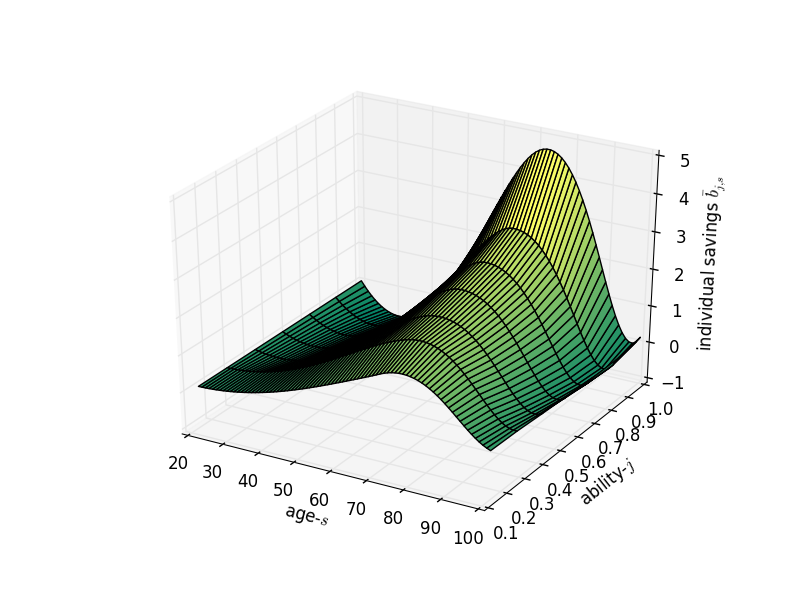
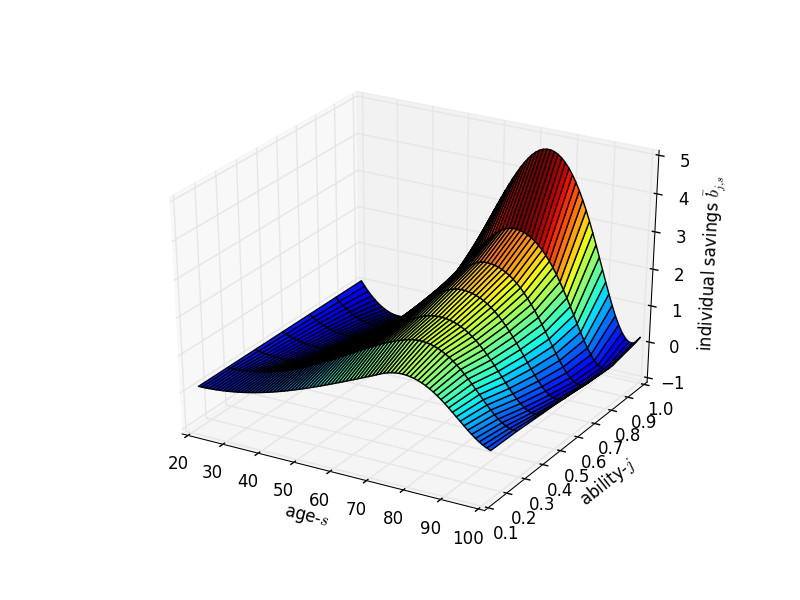
SS

Changed region(s): [[0.25, 0.24, 0.7812, 0.75]]

diff --git a/Python/3_stationary_demographics/SS.py b/Python/3_stationary_demographics/SS.py
@@ -442,6 +442,7 @@ plt.savefig("OUTPUT/capital_dist_2D")
 
 # 3D Graph
 cmap1 = matplotlib.cm.get_cmap('summer')
+cmap2 = matplotlib.cm.get_cmap('jet')
 # Jgrid = np.linspace(1, J, J)
 X, Y = np.meshgrid(domain, Jgrid)
 fig5 = plt.figure()
@@ -450,7 +451,7 @@ ax5.set_xlabel(r'age-$s$')
 ax5.set_ylabel(r'ability-$j$')
 ax5.set_zlabel(r'individual savings $\bar{b}_{j,s}$')
 # ax5.set_title(r'Steady State Distribution of Capital Stock $K$')
-ax5.plot_surface(X, Y, Kssmat2.T, rstride=1, cstride=1, cmap=cmap1)
+ax5.plot_surface(X, Y, Kssmat2.T, rstride=1, cstride=1, cmap=cmap2)
 plt.savefig('OUTPUT/capital_dist_3D')
 
 '''
@@ -488,7 +489,7 @@ ax4.set_xlabel(r'age-$s$')
 ax4.set_ylabel(r'ability-$j$')
 ax4.set_zlabel(r'individual labor supply $\bar{l}_{j,s}$')
 # ax4.set_title(r'Steady State Distribution of Labor Supply $K$')
-ax4.plot_surface(X, Y, Lssmat.T, rstride=1, cstride=1, cmap=cmap1)
+ax4.plot_surface(X, Y, (Lssmat).T, rstride=1, cstride=1, cmap=cmap1)
 plt.savefig('OUTPUT/labor_dist_3D')
 
 '''
@@ -507,7 +508,6 @@ plt.ylabel('Consumption')
 plt.savefig("OUTPUT/consumption_2D")
 
 # 3D Graph
-cmap2 = matplotlib.cm.get_cmap('jet')
 fig9 = plt.figure()
 ax9 = fig9.gca(projection='3d')
 ax9.plot_surface(X, Y, cssmat.T, rstride=1, cstride=1, cmap=cmap2)
